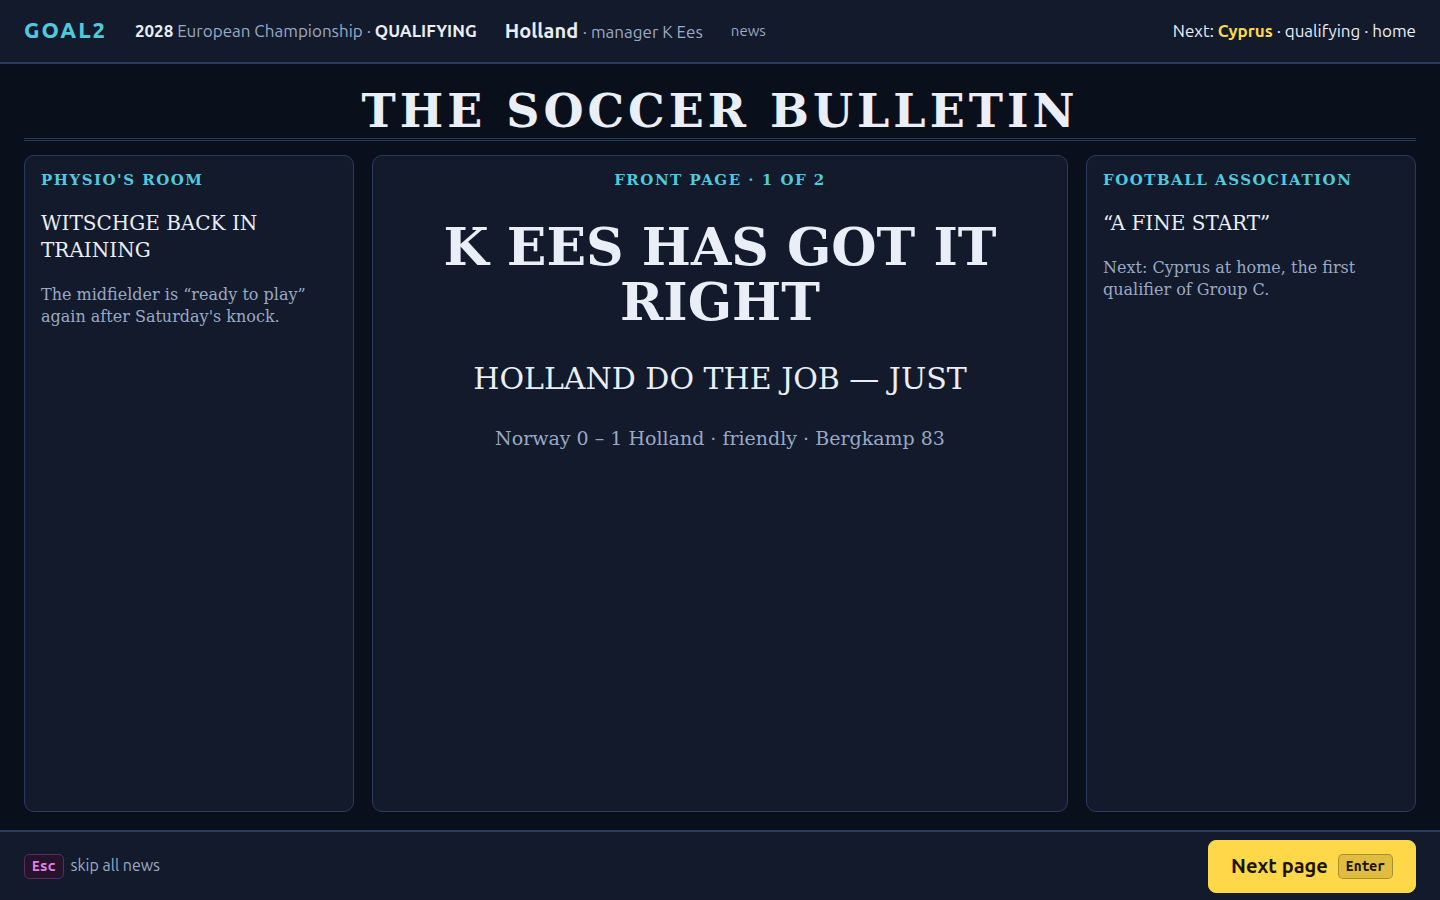
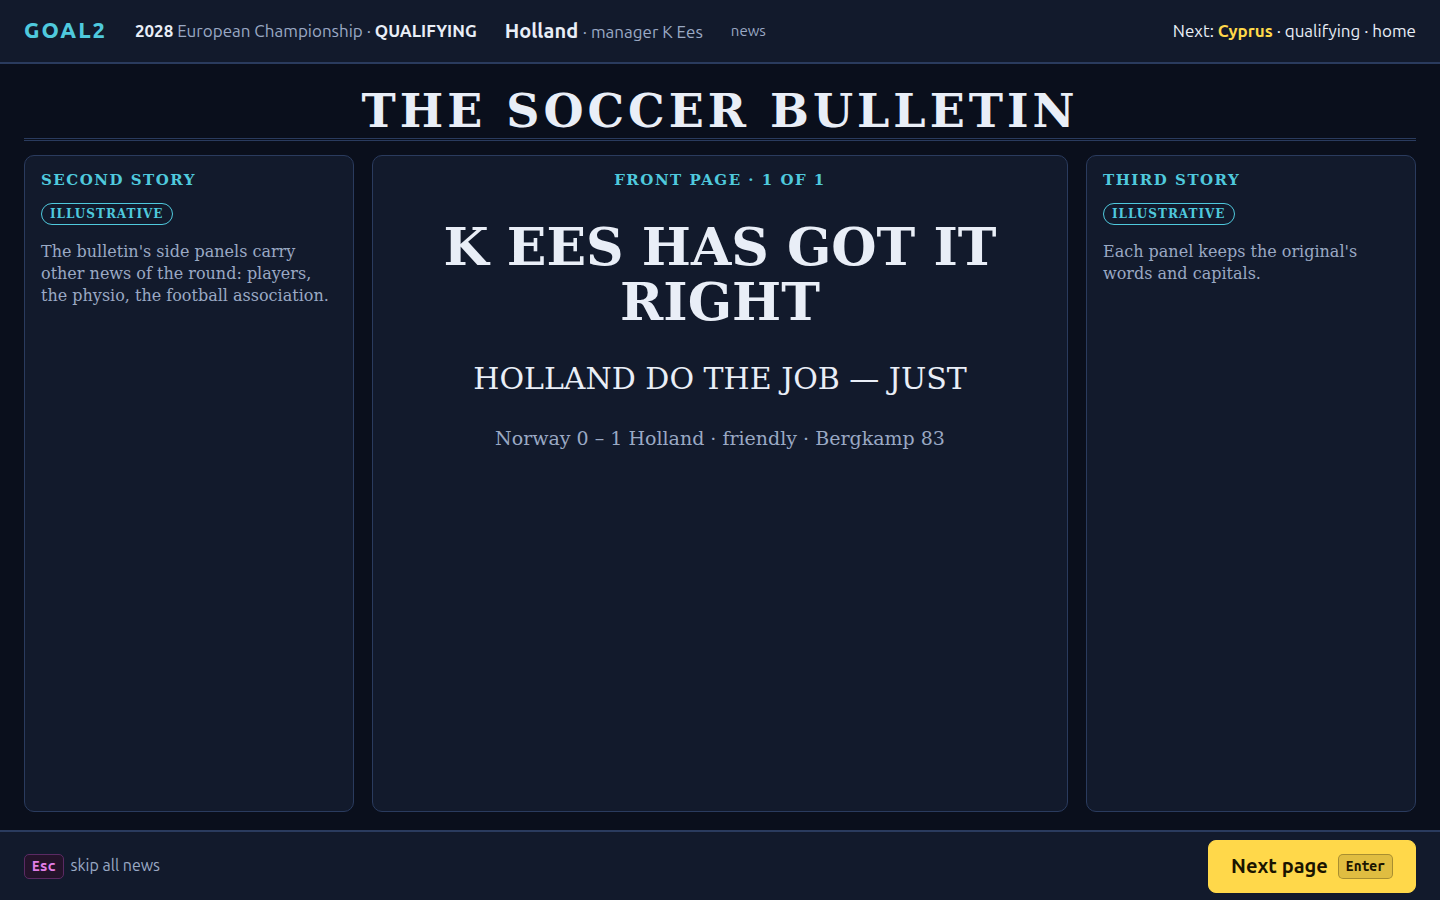
T157: complete the mapping (S20-S22, dropped dos-shell); fix mockup details
Refs #526

Changed region(s): [[0.0312, 0.1867, 0.2188, 0.3733], [0.75, 0.1867, 0.9375, 0.3422]]

diff --git a/docs/design/ui-2026-11/mockups/s09-player-tactics.html b/docs/design/ui-2026-11/mockups/s09-player-tactics.html
@@ -1,8 +1,8 @@
 <!doctype html><html lang="en"><head><meta charset="utf-8"><title>Player tactics</title><link rel="stylesheet" href="style.css"></head><body><header class="top"><span class="brand">GOAL2</span><span class="comp"><b>2028</b> European Championship · <b>QUALIFYING</b></span><span class="who">Holland <span>· manager K Ees</span></span><span class="crumb">select squad · R Koeman · tactics</span><span class="next">Next: <b>Norway</b> · friendly · away</span></header><main><div class="col grow">
-<section class="box" style="display:flex;gap:20px;align-items:baseline"><span class="rc d">C</span><h1>R Koeman</h1><span class="sub">sweeper · club position sweeper · ready to play</span></section>
+<section class="box" style="display:flex;gap:20px;align-items:baseline"><span class="rc d">S</span><h1>R Koeman</h1><span class="sub">sweeper · club position sweeper · ready to play</span></section>
 <div style="display:flex;gap:18px" class="grow">
 <section class="box" style="width:560px"><h2>His own tactics</h2><table><tr><td>position</td><td>push forward P</td></tr><tr><td>possession</td><td>keep ball</td></tr><tr><td>passing</td><td>short passes</td></tr><tr><td>tackling</td><td>avoid injury</td></tr><tr class="on"><td>mark</td><td>Protect zone</td></tr></table>
 <p class="sub" style="margin:14px 0 0">Enter steps the highlighted line to its next option. <b>P</b> marks a line set for this player, not by the team's defaults.
 The mark line steps from zone to each opponent by name; marks are cleared after every match.</p></section>
-<section class="box grow"><h2>Skills</h2><div class="bars"><span>keeping</span><span class="bar"><i style="width:88%"></i></span><span class="muted">8</span><span>kicking</span><span class="bar"><i style="width:77%"></i></span><span class="muted">7</span><span>tackling</span><span class="bar"><i style="width:66%"></i></span><span class="muted">6</span><span>heading</span><span class="bar"><i style="width:66%"></i></span><span class="muted">6</span><span>marking</span><span class="bar"><i style="width:22%"></i></span><span class="muted">2</span><span>passing</span><span class="bar"><i style="width:22%"></i></span><span class="muted">2</span></div><h2 style="margin-top:14px">Characteristics</h2><div class="bars"><span>hardness</span><span class="bar"><i style="width:44%"></i></span><span class="word">pushy</span><span>fitness</span><span class="bar"><i style="width:33%"></i></span><span class="word">ok</span><span>energy</span><span class="bar"><i style="width:44%"></i></span><span class="word">fine</span><span>morale</span><span class="bar"><i style="width:77%"></i></span><span class="word">brimming</span><span>leadership</span><span class="bar"><i style="width:0%"></i></span><span class="word">none</span></div></section>
+<section class="box grow"><h2>Skills</h2><div class="bars"><span>keeping</span><span class="bar"><i style="width:11%"></i></span><span class="muted">1</span><span>kicking</span><span class="bar"><i style="width:88%"></i></span><span class="muted">8</span><span>tackling</span><span class="bar"><i style="width:77%"></i></span><span class="muted">7</span><span>heading</span><span class="bar"><i style="width:66%"></i></span><span class="muted">6</span><span>marking</span><span class="bar"><i style="width:77%"></i></span><span class="muted">7</span><span>passing</span><span class="bar"><i style="width:88%"></i></span><span class="muted">8</span></div><h2 style="margin-top:14px">Characteristics</h2><div class="bars"><span>hardness</span><span class="bar"><i style="width:44%"></i></span><span class="word">pushy</span><span>fitness</span><span class="bar"><i style="width:33%"></i></span><span class="word">ok</span><span>energy</span><span class="bar"><i style="width:44%"></i></span><span class="word">fine</span><span>morale</span><span class="bar"><i style="width:77%"></i></span><span class="word">brimming</span><span>leadership</span><span class="bar"><i style="width:0%"></i></span><span class="word">none</span></div></section>
 </div></div><section class="box strip"><h2>Holland</h2><ul class="list"><li><span class="rc g">G</span> F V Breukelen</li><li class="on"><span class="rc d">S</span> R Koeman</li><li><span class="rc d">C</span> B Van Aerle</li><li><span class="rc d">C</span> A V Tiggelen</li><li><span class="rc m">D</span> J Wouters</li><li><span class="rc m">m</span> R Witschge</li><li><span class="rc m">M</span> F Rijkaard</li><li><span class="rc m">F</span> D Bergkamp</li><li><span class="rc a">w</span> B Roy</li><li><span class="rc a">W</span> R Gullit</li><li><span class="rc a">$</span> M Van Basten</li><li class="sep"></li><li><span class="rc g">G</span> S Menzo</li><li><span class="rc d">S</span> F De Boer</li><li><span class="rc d">C</span> D Blind</li><li><span class="rc m">Ç</span> W Jonk</li><li><span class="rc m">Ç</span> P Bosz</li><li><span class="rc m">M</span> J Van't Ship</li><li><span class="rc m">m</span> A Winter</li><li><span class="rc a">$</span> P Van Vossen</li><li><span class="rc a">$</span> W Kieft</li></ul></section></main><footer class="keys"><span class="kk"><kbd>↑</kbd><kbd>↓</kbd><kbd>←</kbd><kbd>→</kbd> line</span><span class="kk"><kbd>Esc</kbd> back to the card</span><span class="btn primary">Alter tactic <kbd>Enter</kbd></span></footer></body></html>

diff --git a/docs/design/ui-2026-11/mockups/s05-bulletin.html b/docs/design/ui-2026-11/mockups/s05-bulletin.html
@@ -1,10 +1,10 @@
 <!doctype html><html lang="en"><head><meta charset="utf-8"><title>Bulletin</title><link rel="stylesheet" href="style.css"></head><body><header class="top"><span class="brand">GOAL2</span><span class="comp"><b>2028</b> European Championship · <b>QUALIFYING</b></span><span class="who">Holland <span>· manager K Ees</span></span><span class="crumb">news</span><span class="next">Next: <b>Cyprus</b> · qualifying · home</span></header><main><div class="col grow" style="max-width:1392px">
 <div style="text-align:center;font:900 46px/1 Georgia,'DejaVu Serif',serif;letter-spacing:4px;padding:6px 0 4px;border-bottom:3px double var(--line)">THE SOCCER BULLETIN</div>
 <div style="display:flex;gap:18px" class="grow">
- <section class="box" style="width:330px;font-family:Georgia,'DejaVu Serif',serif"><h2>Physio's room</h2><p style="font-size:20px">WITSCHGE BACK IN TRAINING</p><p class="sub">The midfielder is “ready to play” again after Saturday's knock.</p></section>
- <section class="box grow" style="font-family:Georgia,'DejaVu Serif',serif;text-align:center"><h2>Front page · 1 of 2</h2>
+ <section class="box" style="width:330px;font-family:Georgia,'DejaVu Serif',serif"><h2>Second story</h2><span class="tag">illustrative</span><p class="sub">The bulletin's side panels carry other news of the round: players, the physio, the football association.</p></section>
+ <section class="box grow" style="font-family:Georgia,'DejaVu Serif',serif;text-align:center"><h2>Front page · 1 of 1</h2>
   <div style="font-size:52px;font-weight:900;line-height:1.05;margin:30px 0">K EES HAS GOT IT RIGHT</div>
   <div style="font-size:30px">HOLLAND DO THE JOB — JUST</div>
   <p class="sub" style="margin-top:26px;font-size:19px">Norway 0 – 1 Holland · friendly · Bergkamp 83</p></section>
- <section class="box" style="width:330px;font-family:Georgia,'DejaVu Serif',serif"><h2>Football association</h2><p style="font-size:20px">“A FINE START”</p><p class="sub">Next: Cyprus at home, the first qualifier of Group C.</p></section>
+ <section class="box" style="width:330px;font-family:Georgia,'DejaVu Serif',serif"><h2>Third story</h2><span class="tag">illustrative</span><p class="sub">Each panel keeps the original's words and capitals.</p></section>
 </div></div></main><footer class="keys"><span class="kk"><kbd>Esc</kbd> skip all news</span><span class="btn primary">Next page <kbd>Enter</kbd></span></footer></body></html>

diff --git a/docs/design/ui-2026-11/mockups/build.py b/docs/design/ui-2026-11/mockups/build.py
@@ -222,12 +222,12 @@ def s05_bulletin():
     body = '''<div class="col grow" style="max-width:1392px">
 <div style="text-align:center;font:900 46px/1 Georgia,'DejaVu Serif',serif;letter-spacing:4px;padding:6px 0 4px;border-bottom:3px double var(--line)">THE SOCCER BULLETIN</div>
 <div style="display:flex;gap:18px" class="grow">
- <section class="box" style="width:330px;font-family:Georgia,'DejaVu Serif',serif"><h2>Physio's room</h2><p style="font-size:20px">WITSCHGE BACK IN TRAINING</p><p class="sub">The midfielder is “ready to play” again after Saturday's knock.</p></section>
- <section class="box grow" style="font-family:Georgia,'DejaVu Serif',serif;text-align:center"><h2>Front page · 1 of 2</h2>
+ <section class="box" style="width:330px;font-family:Georgia,'DejaVu Serif',serif"><h2>Second story</h2><span class="tag">illustrative</span><p class="sub">The bulletin's side panels carry other news of the round: players, the physio, the football association.</p></section>
+ <section class="box grow" style="font-family:Georgia,'DejaVu Serif',serif;text-align:center"><h2>Front page · 1 of 1</h2>
   <div style="font-size:52px;font-weight:900;line-height:1.05;margin:30px 0">K EES HAS GOT IT RIGHT</div>
   <div style="font-size:30px">HOLLAND DO THE JOB — JUST</div>
   <p class="sub" style="margin-top:26px;font-size:19px">Norway 0 – 1 Holland · friendly · Bergkamp 83</p></section>
- <section class="box" style="width:330px;font-family:Georgia,'DejaVu Serif',serif"><h2>Football association</h2><p style="font-size:20px">“A FINE START”</p><p class="sub">Next: Cyprus at home, the first qualifier of Group C.</p></section>
+ <section class="box" style="width:330px;font-family:Georgia,'DejaVu Serif',serif"><h2>Third story</h2><span class="tag">illustrative</span><p class="sub">Each panel keeps the original's words and capitals.</p></section>
 </div></div>'''
     return page("Bulletin", body, [("Esc", "skip all news")], ("Enter", "Next page"), crumb="news", nxt="<b>Cyprus</b> · qualifying · home")
 
@@ -304,12 +304,12 @@ def s09_player_tactics():
             ("tackling", "avoid injury"), ("mark", "Protect zone")]
     trs = "".join(f'<tr{" class=\"on\"" if i == 4 else ""}><td>{a}</td><td>{b}</td></tr>' for i, (a, b) in enumerate(rows))
     body = f'''<div class="col grow">
-<section class="box" style="display:flex;gap:20px;align-items:baseline">{rc("C")}<h1>R Koeman</h1><span class="sub">sweeper · club position sweeper · ready to play</span></section>
+<section class="box" style="display:flex;gap:20px;align-items:baseline">{rc("S")}<h1>R Koeman</h1><span class="sub">sweeper · club position sweeper · ready to play</span></section>
 <div style="display:flex;gap:18px" class="grow">
 <section class="box" style="width:560px"><h2>His own tactics</h2><table>{trs}</table>
 <p class="sub" style="margin:14px 0 0">Enter steps the highlighted line to its next option. <b>P</b> marks a line set for this player, not by the team's defaults.
 The mark line steps from zone to each opponent by name; marks are cleared after every match.</p></section>
-<section class="box grow"><h2>Skills</h2>{bars(SKILLS[:6])}<h2 style="margin-top:14px">Characteristics</h2>{bars(CHARS)}</section>
+<section class="box grow"><h2>Skills</h2>{bars([("keeping", 1, ""), ("kicking", 8, ""), ("tackling", 7, ""), ("heading", 6, ""), ("marking", 7, ""), ("passing", 8, "")])}<h2 style="margin-top:14px">Characteristics</h2>{bars(CHARS)}</section>
 </div></div>{strip(on="R Koeman")}'''
     return page("Player tactics", body, [(("↑", "↓", "←", "→"), "line"), ("Esc", "back to the card")],
                 ("Enter", "Alter tactic"), crumb="select squad · R Koeman · tactics")

diff --git a/docs/design/ui-2026-11/README.md b/docs/design/ui-2026-11/README.md
@@ -513,6 +513,7 @@ image embedded in the chapters is in one row: the new screen that replaces it, o
 <!-- mapping:start -->
 | New screen | Original screens it replaces | Note |
 | --- | --- | --- |
+| S01 | — | goal2 adds it: the first-start import (T153) |
 | S02 | `title-load-prompt`, `m244-load-name`, `t156-243-load-name`, `file-not-found-prompt` | title, load, error |
 | S03 | `title-player-count`, `t156-002-hang-on-a-tick` | managers, busy |
 | S04 | `country-select`, `country-select-name-entry`, `t156-005-country-holland`, `t156-006-name-entry`, `t156-010-name-typed` | country, name |
@@ -531,6 +532,10 @@ image embedded in the chapters is in one row: the new screen that replaces it, o
 | S17 | `match-live`, `match-commentary`, `injury-event`, `t156-045-kick-off`, `t156-058-taker-timed-out`, `t156-066-injury-and-booking`, `t156-178-replay-playing`, `t156-247-goal-replay`, `t156-254-goal-replay-goal`, `t156-267-quick-hang-on`, `m244-shootout-first-goal` | pitch |
 | S18 | `t156-067-substitution-opportunity`, `t156-149-opponent-substitution`, `t156-175-replay-prompt`, `t156-176-save-goal-prompt`, `t156-177-goal-file-name`, `t156-274-quick-substitution-opportunity`, `e031-shootout-start`, `m244-shootout-prompt` | stops |
 | S19 | `squad-substitution-take-off`, `squad-substitution-put-on`, `squad-substitution-illegal`, `t156-074-bench-requested`, `t156-080-bench-request-cancelled`, `t156-124-halftime-bench`, `t156-132-substitution-made`, `t156-279-quick-bench`, `t156-301-quick-substitution-made` | bench |
+| S20 | `t156-119-halftime-board`, `t156-192-fulltime-board`, `t156-270-quick-halftime`, `t156-310-quick-fulltime`, `match-summary-save-prompt`, `match-summary`, `t156-198-summary-prompt`, `t156-199-summary-file-name` | boards, summary |
+| S21 | `save-game-name-entry`, `save-game-prompt`, `quit-confirm`, `t156-233-save-name-prompt`, `t156-237-save-name-typed`, `t156-239-quit-confirm`, `t156-240-quit-save-prompt`, `t156-245-load-goal-prompt` | save, quit, load goal |
+| S22 | — | goal2 adds it in place of the original's help viewer, of which no capture exists |
+| dropped | `dos-shell` | The emulator's DOS prompt before GOAL2 starts: not a game screen; goal2 starts on S01 or S02 |
 <!-- mapping:end -->
 
 ## 6. Questions for the owner
